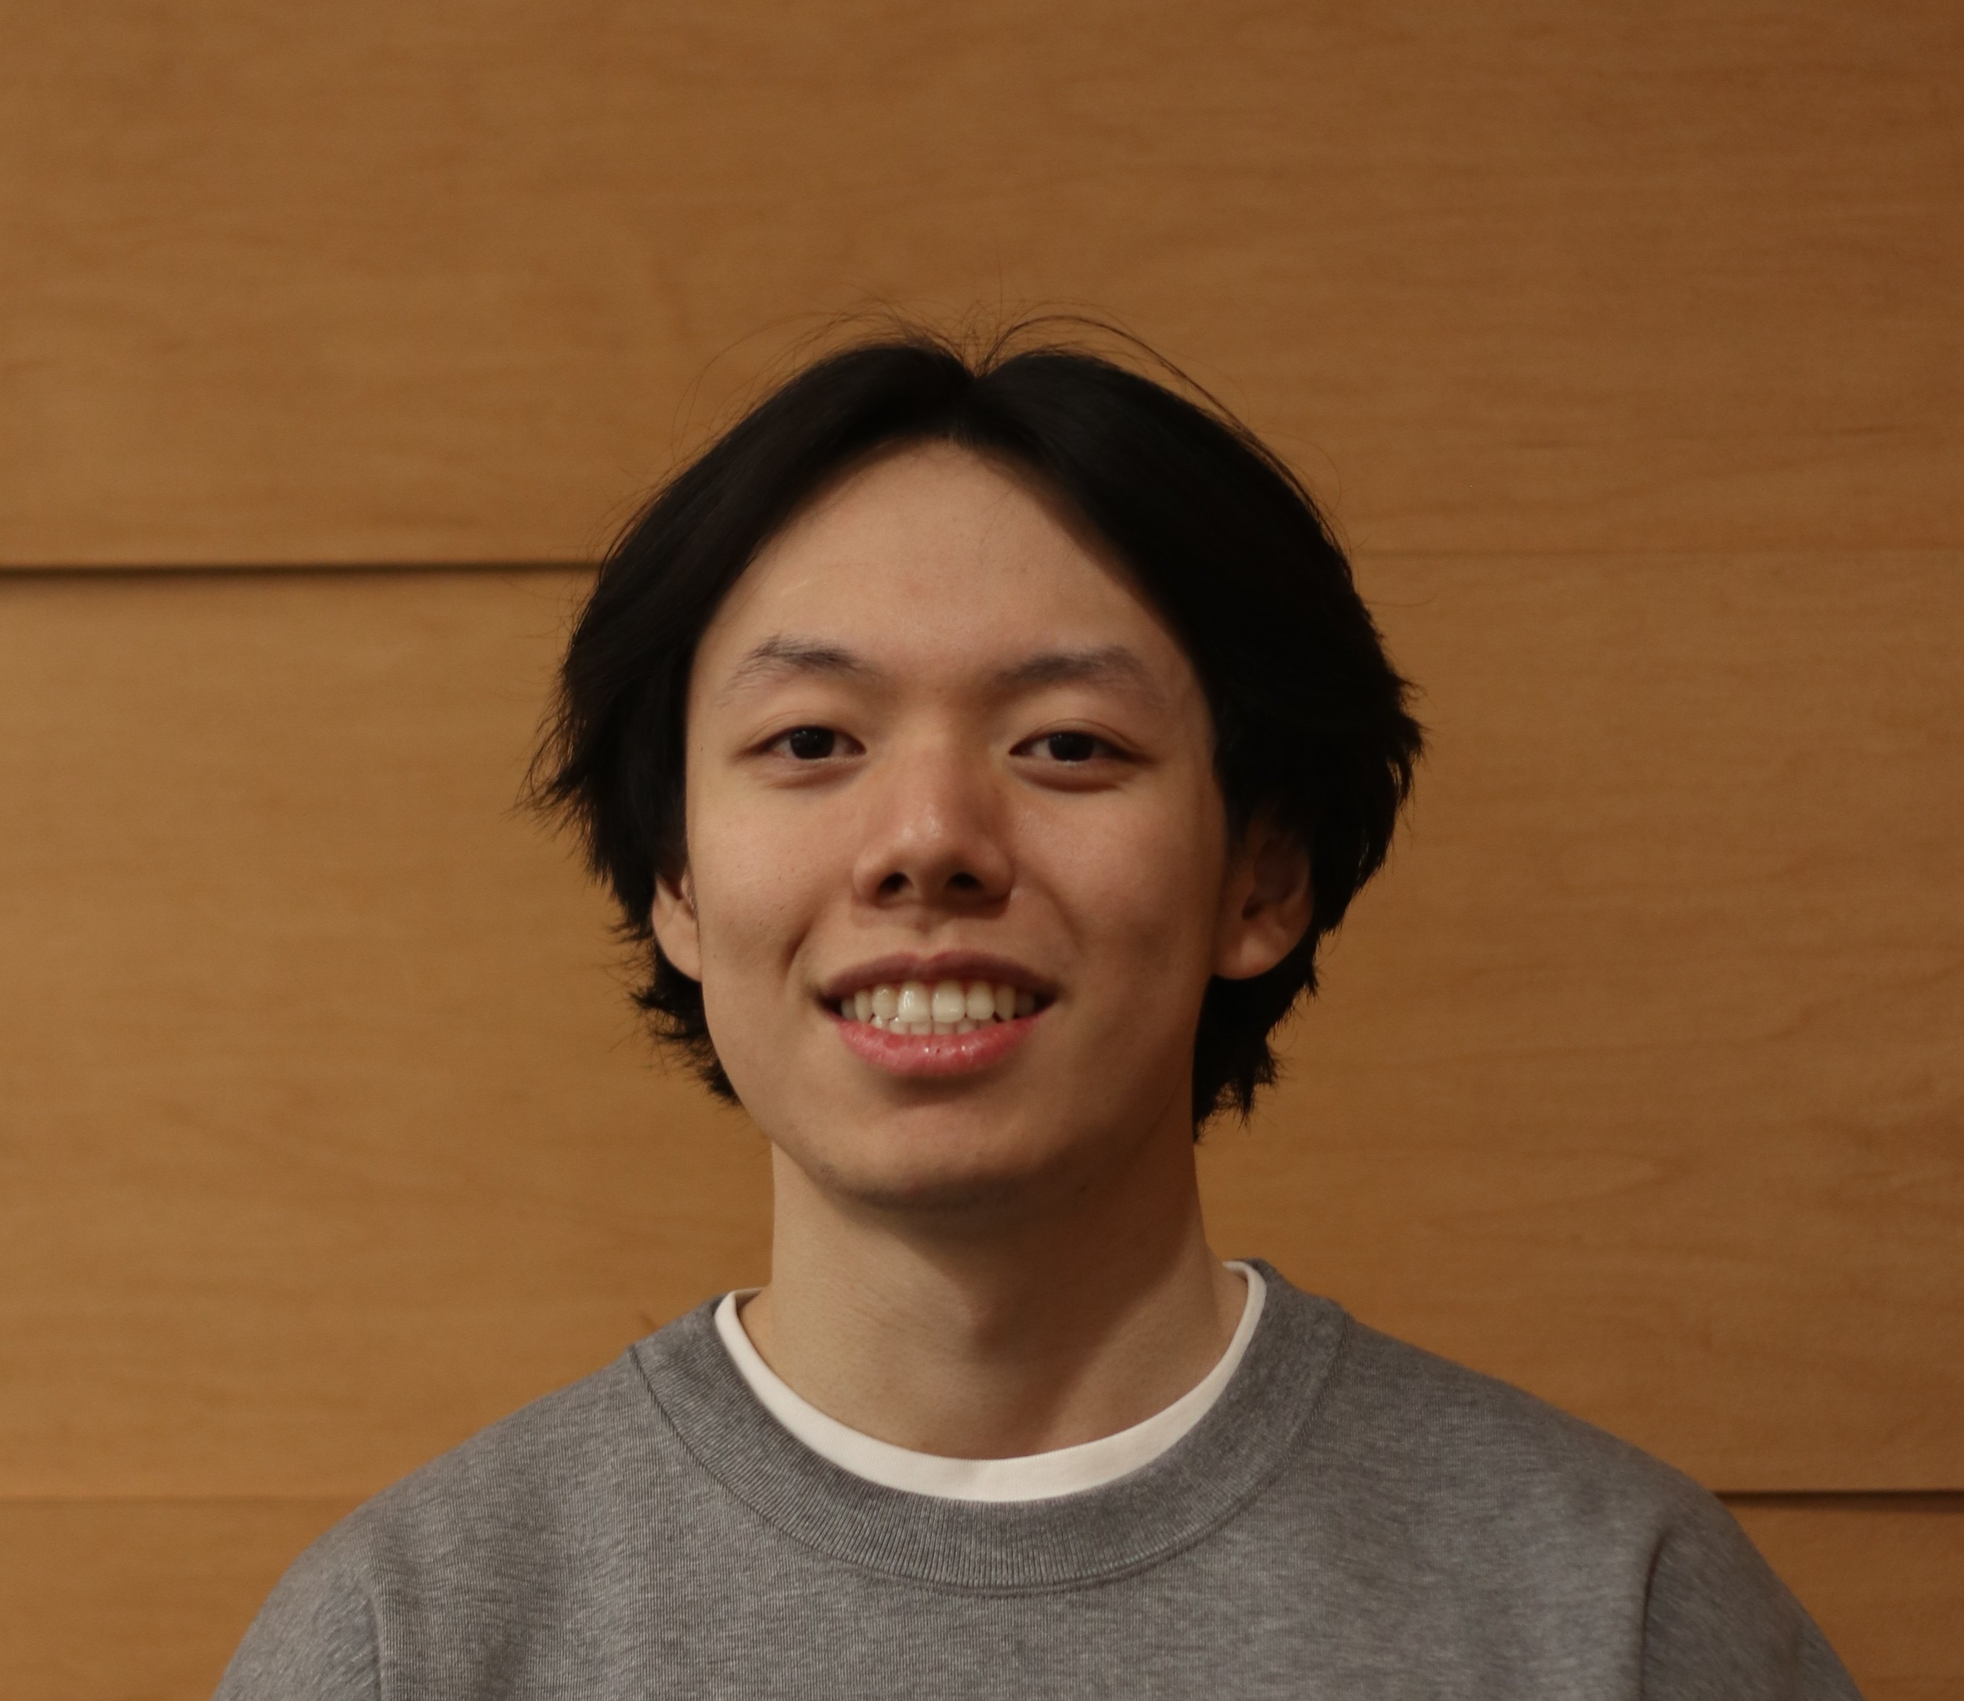
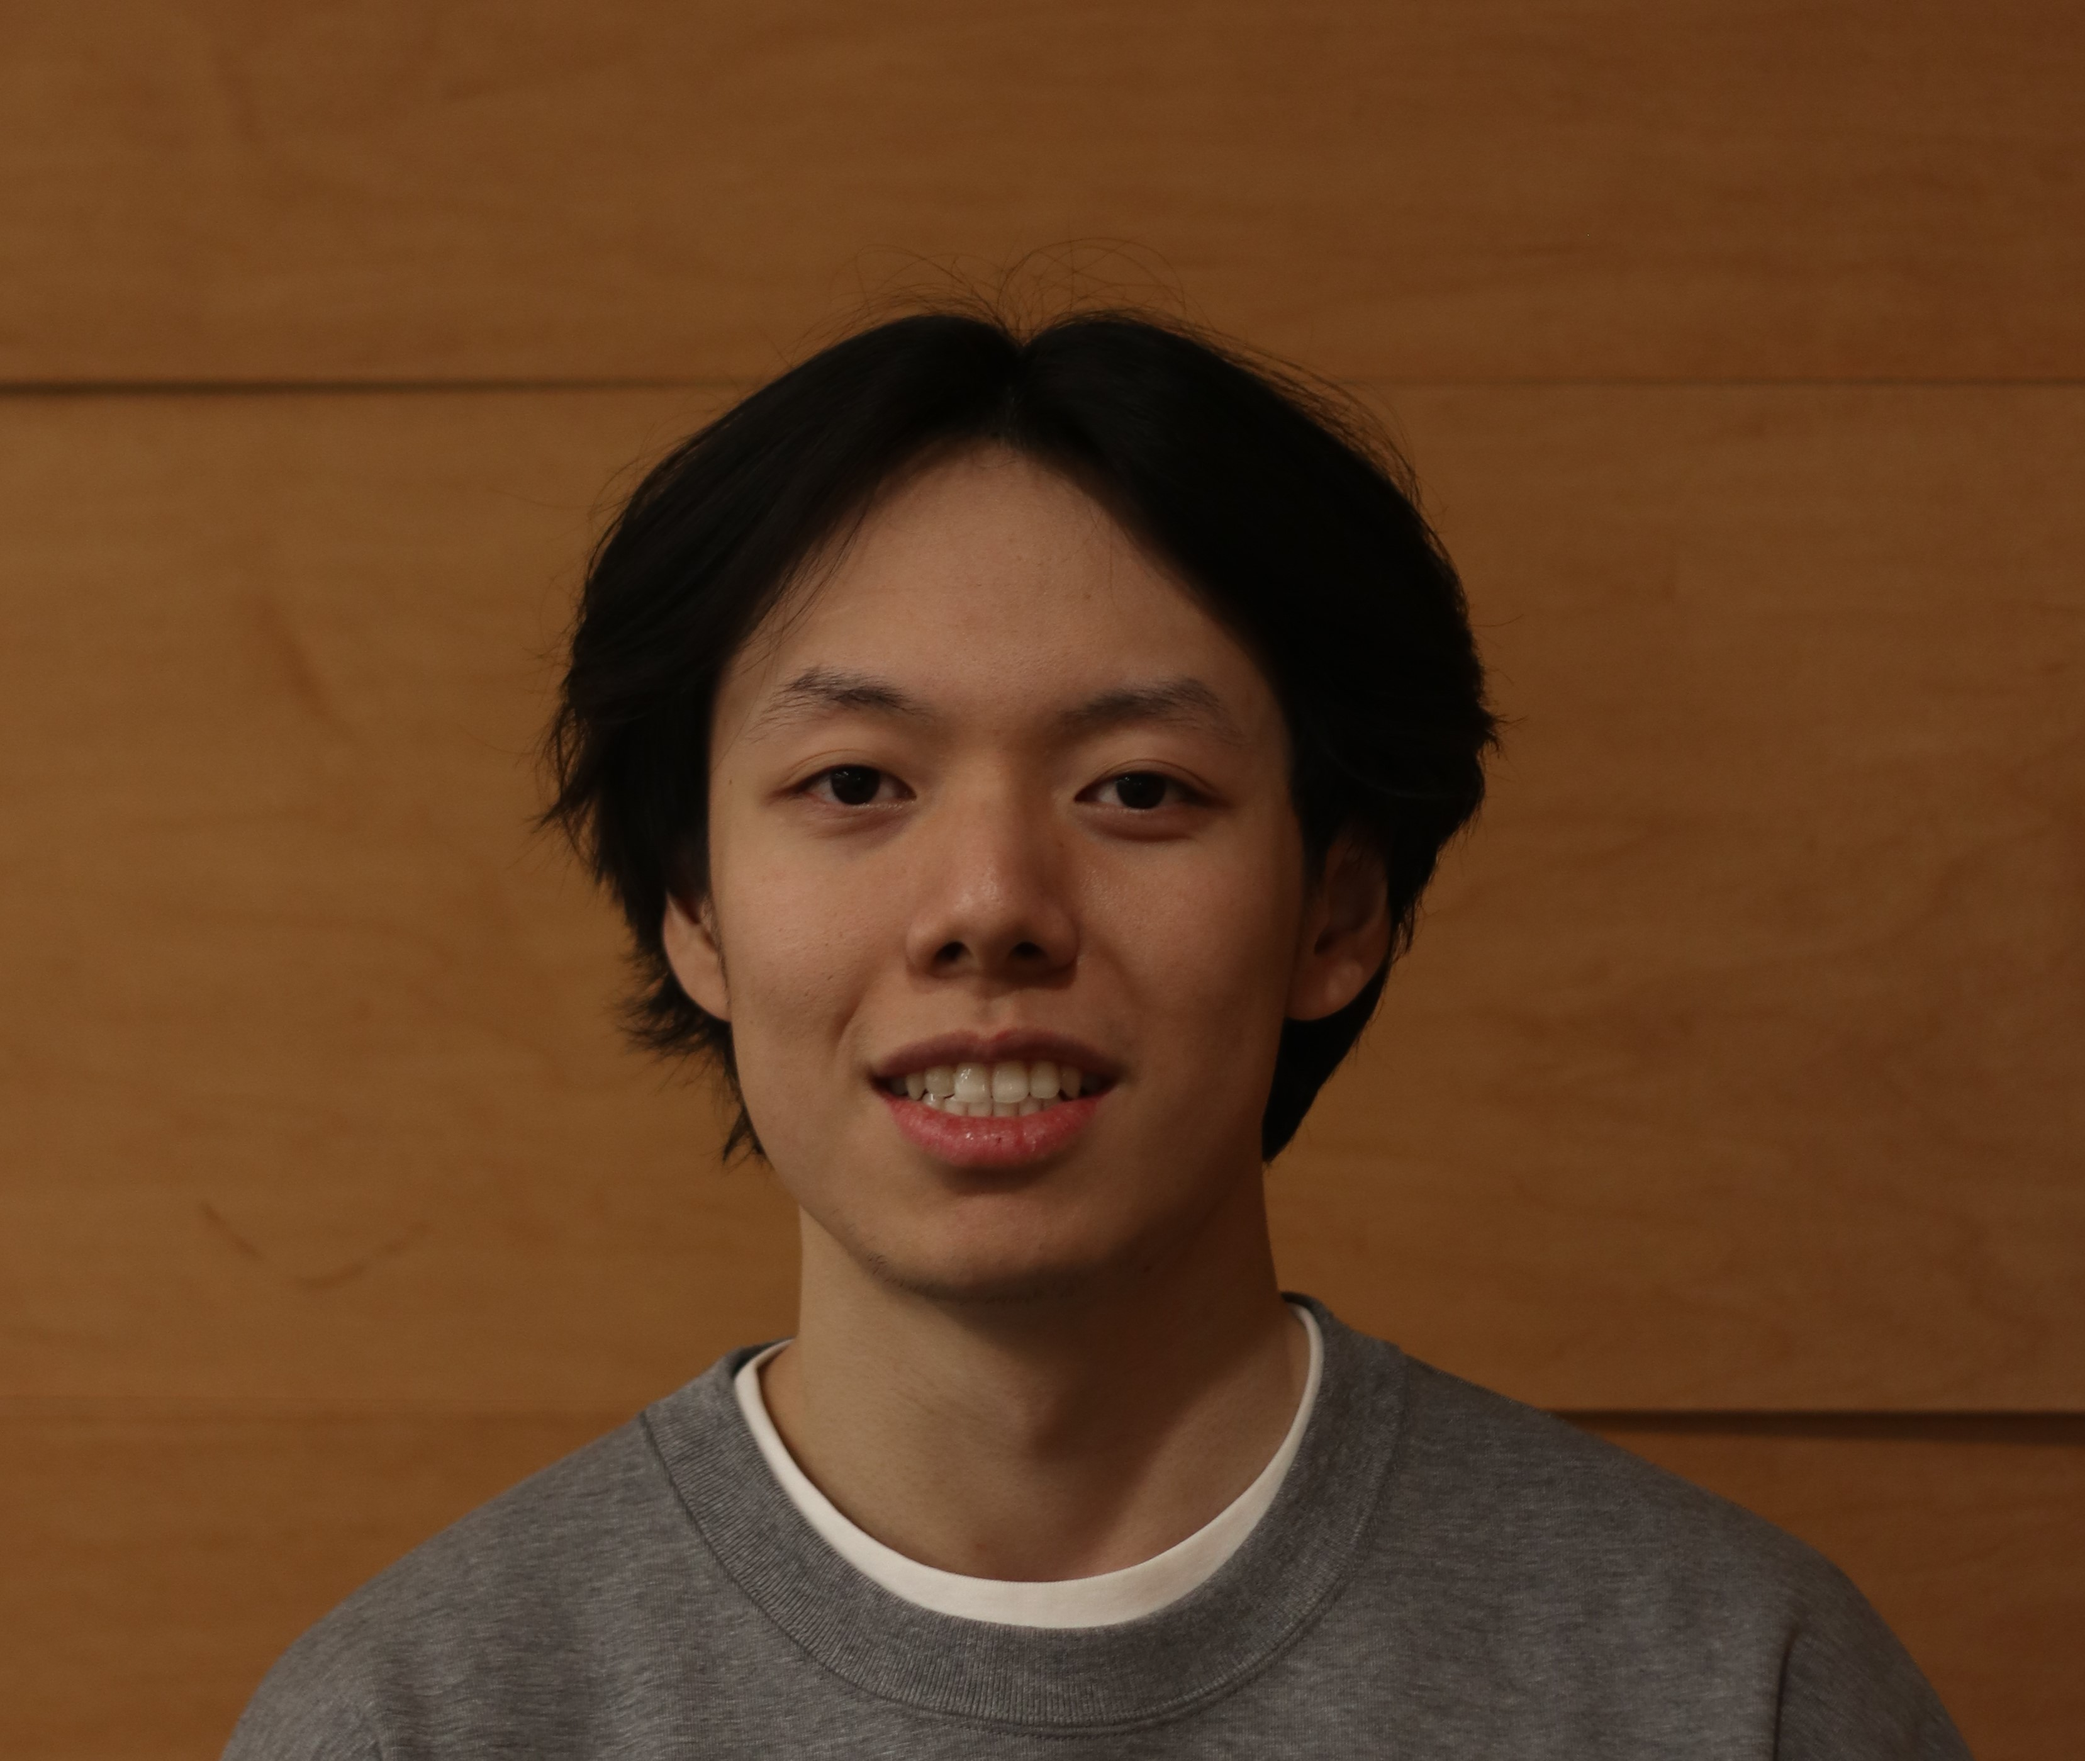
Added full team and subteam pictures

diff --git a/_pages/roster.html b/_pages/roster.html
@@ -58,11 +58,18 @@ permalink: /roster/
   >
     <span class="relative z-10">PANORAMA</span>
   </a>
+  
 </div>
       </div>
 
+      <img
+            src="../assets/images/roster/team.JPG"
+            alt="Team picture"
+            class="w-full h-64 md:h-96 object-cover rounded-lg border-2 border-red-900"
+          />
+
       <!-- CAPTAINS SECTION -->
-      <section id="captains" class="mb-16">
+      <section id="captains" class="mb-16 mt-8">
         <h2 class="text-3xl md:text-4xl font-black text-gray-900 dark:text-white mb-8 text-left">
           CAPTAINS
         </h2>
@@ -141,10 +148,25 @@ permalink: /roster/
 
       <!-- ROBOT ARM SECTION -->
       <section id="arm" class="mb-16 scroll-mt-32">
-        <h2 class="text-3xl md:text-4xl font-black text-gray-900 dark:text-white mb-8 text-left">
-          ROBOT ARM
-        </h2>
-        <div class="grid grid-cols-2 md:grid-cols-3 lg:grid-cols-4 gap-8">
+        <div class="relative overflow-hidden rounded-lg border-2 border-red-900">
+          <!-- Image (full opacity) -->
+          <img
+            src="../assets/images/roster/robot_arm_group.JPG"
+            alt="Robot Arm team"
+            class="w-full h-64 md:h-96 object-cover"
+          />
+
+          <!-- Red tint overlay -->
+          <div class="absolute inset-0 bg-red-900/75"></div>
+
+          <!-- Centered text on top -->
+          <div class="absolute inset-0 flex items-center justify-center">
+            <h2 class="text-4xl md:text-6xl font-black text-white tracking-wide">
+              ROBOT ARM
+            </h2>
+          </div>
+        </div>
+        <div class="grid grid-cols-2 md:grid-cols-3 lg:grid-cols-4 gap-8 mt-8">
 
             <div class="flex flex-col items-center">
                 <img
@@ -284,15 +306,40 @@ permalink: /roster/
                 <h3 class="font-bold text-lg text-gray-900 dark:text-white">Piyusha Satija</h3>
                 <p class="text-sm text-gray-600 dark:text-gray-400">Member</p>
               </div>
+
+              <div class="flex flex-col items-center">
+                <img
+                  src="../assets/images/roster/madhavi_soni.PNG"
+                  alt=""
+                  class="w-32 h-32 rounded-full object-cover mb-4 border-4 border-red-600"
+                />
+                <h3 class="font-bold text-lg text-gray-900 dark:text-white">Madhavi Soni</h3>
+                <p class="text-sm text-gray-600 dark:text-gray-400">Member</p>
+              </div>
         </div>
       </section>
 
       <!-- CIRCUITBOTS SECTION -->
       <section id="circuit" class="mb-16 scroll-mt-32">
-        <h2 class="text-3xl md:text-4xl font-black text-gray-900 dark:text-white mb-8 text-left">
-          HAPTIC KNOB
-        </h2>
-        <div class="grid grid-cols-2 md:grid-cols-3 lg:grid-cols-4 gap-8">
+        <div class="relative overflow-hidden rounded-lg border-2 border-red-900">
+          <!-- Image (full opacity) -->
+          <img
+            src="../assets/images/roster/haptic_knob_group.JPG"
+            alt="Haptic Knob team"
+            class="w-full h-64 md:h-96 object-cover"
+          />
+
+          <!-- Red tint overlay -->
+          <div class="absolute inset-0 bg-red-900/75"></div>
+
+          <!-- Centered text on top -->
+          <div class="absolute inset-0 flex items-center justify-center">
+            <h2 class="text-4xl md:text-6xl font-black text-white tracking-wide">
+              HAPTIC KNOB
+            </h2>
+          </div>
+        </div>
+        <div class="grid grid-cols-2 md:grid-cols-3 lg:grid-cols-4 gap-8 mt-8">
 
         <div class="flex flex-col items-center">
             <img
@@ -355,10 +402,25 @@ permalink: /roster/
 
       <!-- GUITAR TUNER SECTION -->
       <section id="guitartuner" class="mb-16 scroll-mt-32">
-        <h2 class="text-3xl md:text-4xl font-black text-gray-900 dark:text-white mb-8 text-left">
-          GUITAR TUNER
-        </h2>
-        <div class="grid grid-cols-2 md:grid-cols-3 lg:grid-cols-4 gap-8">
+        <div class="relative overflow-hidden rounded-lg border-2 border-red-900">
+          <!-- Image (full opacity) -->
+          <img
+            src="../assets/images/roster/guitar_tuner_group.JPG"
+            alt="Guitar Tuner team"
+            class="w-full h-64 md:h-96 object-cover"
+          />
+
+          <!-- Red tint overlay -->
+          <div class="absolute inset-0 bg-red-900/75"></div>
+
+          <!-- Centered text on top -->
+          <div class="absolute inset-0 flex items-center justify-center">
+            <h2 class="text-4xl md:text-6xl font-black text-white tracking-wide">
+              GUITAR TUNER
+            </h2>
+          </div>
+        </div>
+        <div class="grid grid-cols-2 md:grid-cols-3 lg:grid-cols-4 gap-8 mt-8">
 
             <div class="flex flex-col items-center">
                 <img
@@ -465,10 +527,25 @@ permalink: /roster/
 
       <!-- PANORAMA SECTION -->
       <section id="panorama" class="mb-16 scroll-mt-32">
-        <h2 class="text-3xl md:text-4xl font-black text-gray-900 dark:text-white mb-8 text-left">
-          PANORAMA
-        </h2>
-        <div class="grid grid-cols-2 md:grid-cols-3 lg:grid-cols-4 gap-8">
+        <div class="relative overflow-hidden rounded-lg border-2 border-red-900">
+          <!-- Image (full opacity) -->
+          <img
+            src="../assets/images/roster/panorama_group.JPG"
+            alt="Panorama team"
+            class="w-full h-64 md:h-96 object-cover object-[center_32%]"
+          />
+
+          <!-- Red tint overlay -->
+          <div class="absolute inset-0 bg-red-900/75"></div>
+
+          <!-- Centered text on top -->
+          <div class="absolute inset-0 flex items-center justify-center">
+            <h2 class="text-4xl md:text-6xl font-black text-white tracking-wide">
+              PANORAMA
+            </h2>
+          </div>
+        </div>
+        <div class="grid grid-cols-2 md:grid-cols-3 lg:grid-cols-4 gap-8 mt-8">
             <div class="flex flex-col items-center">
                 <img
                   src="../assets/images/roster/alex_zhou.JPG"
